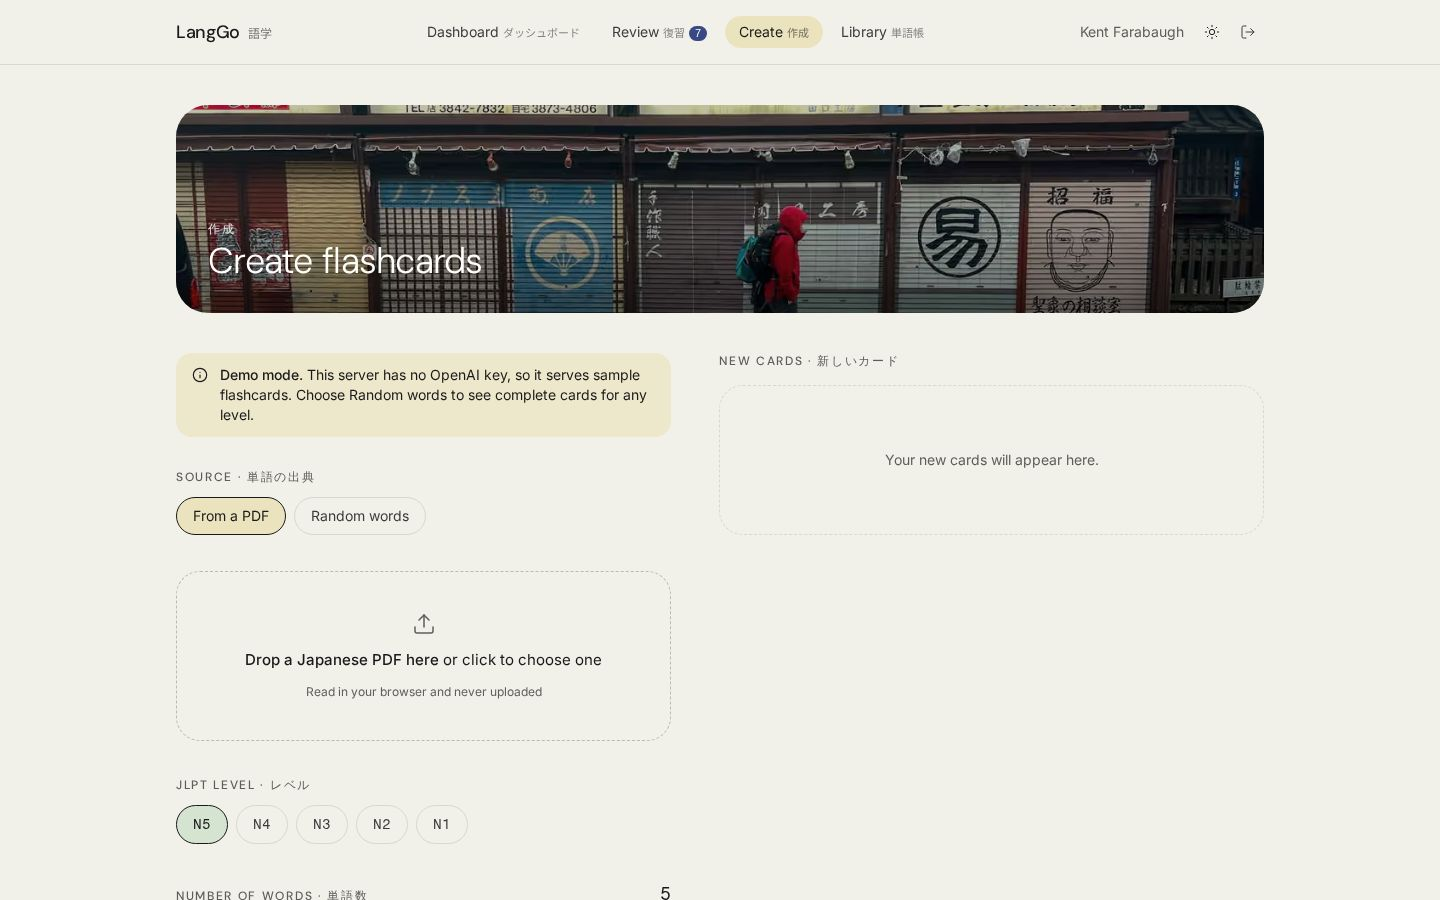
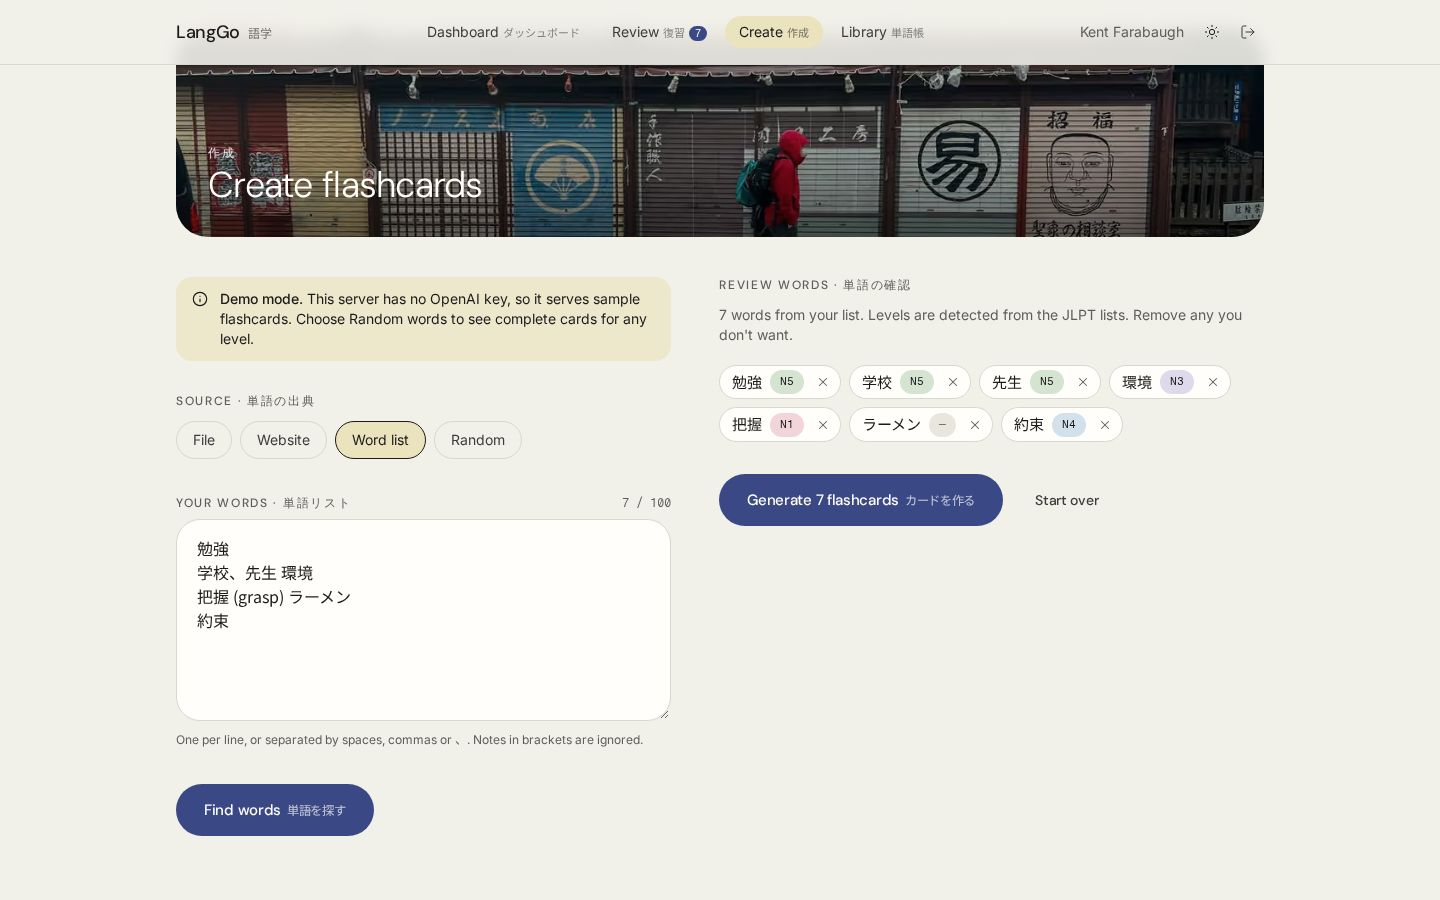
Add MIT license, roadmap, live demo link, and fresh screenshots
- LICENSE: MIT for the code; photos and screenshots remain all rights
  reserved; JLPT word lists credited (origin unconfirmed, see roadmap)
- README: live demo link, license badge and section, roadmap link, updated
  intro and screenshots (word-list preview, library with Anki export)
- docs/ROADMAP.md: launch checklist, grammar cards, YouTube links, AI chat
  tutor, Bunpro integration
- package.json license fields

diff --git a/docs/ROADMAP.md b/docs/ROADMAP.md
@@ -1,0 +1,135 @@
+# LangGo roadmap
+
+What's planned after the current release, in the recommended order. Effort is a rough estimate
+for one developer (S ≈ 1–2 days, M ≈ 3–5 days, L ≈ 1–2 weeks).
+
+**Shipped:** PostgreSQL + Better Auth, demo mode, VPS deployment, redesign with dark mode, focused
+review sessions, word lists / files (PDF, EPUB, DOCX, TXT, HTML, SRT/VTT) / web pages as sources,
+and Anki export.
+
+| # | Item | Status | Effort |
+|---|------|--------|--------|
+| 0 | [Launch checklist](#0-launch-checklist) | Before going live | M |
+| 1 | [Grammar cards](#1-grammar-cards) | Next | L |
+| 2 | [YouTube links](#2-youtube-links) | Covered by subtitle upload; link support optional | S–M |
+| 3 | [AI chat tutor](#3-ai-chat-tutor) | Later | L |
+| 4 | [Bunpro integration](#4-bunpro-integration) | Blocked on an official API | M |
+
+---
+
+## 0. Launch checklist
+
+Not features, but worth doing before real users arrive.
+
+- **Account deletion and data download.** The privacy page promises account removal on request;
+  a self-service "Delete my account" (cascades to cards via the existing foreign keys) and a
+  "Download my data" (the Anki/CSV export already covers cards) make that promise real.
+- **Password reset.** Needs an email provider (e.g. Postmark, Resend, Amazon SES). Better Auth has
+  built-in `sendResetPassword`; add the matching pages. Email verification can use the same
+  provider.
+- **Enforce the Content-Security-Policy.** It ships in report-only mode. Check the browser console
+  on the deployed site for violations, then set `reportOnly: false` in `backend/src/app.ts`.
+- **Error monitoring.** A hosted error tracker (e.g. Sentry, GlitchTip self-hosted) for both
+  frontend and backend, with PII scrubbing.
+- **Off-server backups.** The `backup` service keeps dumps on the VPS; add a scheduled copy to
+  object storage (OVHcloud Object Storage or similar).
+- **OpenAI budget.** Set a hard monthly limit in the OpenAI dashboard; review
+  `GENERATE_RATE_LIMIT` once there's real usage.
+- **Terms of use** page alongside the privacy policy.
+- **Word list provenance.** The origin of `frontend/src/data/*.json` isn't documented. Rebuild
+  the lists from a clearly licensed source (e.g. Jonathan Waller's CC BY JLPT lists) with a
+  small, committed script, credit the source, and keep the script so the data is reproducible.
+
+## 1. Grammar cards
+
+**Goal:** study grammar points (e.g. 〜ながら, 〜ばかり) with the same review flow as vocabulary.
+
+**Data model**
+- Add `kind` (`vocab` | `grammar`, default `vocab`) to `flashcard`, plus a nullable `details`
+  JSONB column for grammar-specific content:
+  `{ pattern, formation, explanation, examples: [{ ja, reading, en }] }`.
+- Existing columns map naturally: `word` = the pattern (e.g. 〜ながら), `meaning` = short gloss,
+  `mnemonic` = memory hook. `level` and scheduling are unchanged.
+
+**Sources**
+- *From text:* ask the model to identify grammar points used in a passage (from the existing
+  file/web/list extractors), constrained to the chosen JLPT level, returned as structured output
+  like today's vocab cards.
+- *From a list:* a curated JLPT grammar list per level, like the vocab lists. **Open question:**
+  find a list whose license permits redistribution (many online lists don't); otherwise rely on
+  model detection plus user-typed patterns.
+
+**API / UI**
+- `POST /api/flashcards` gains `kind`; a second Zod schema and prompt for grammar generation.
+- Create page: a Vocabulary / Grammar toggle above the sources.
+- Card back for grammar: formation, explanation, and 2–3 example sentences (furigana via
+  `<ruby>`). An optional cloze mode ("fill in the blank") for review later.
+- Library: a kind filter. Anki export: a second note type, "LangGo Grammar".
+
+**Testing:** schema migration, generation route (fake generator), rendering of grammar faces,
+Anki export of both note types (verify with the real Anki importer as before).
+
+## 2. YouTube links
+
+**Today:** users download a video's subtitles (.srt/.vtt) and drop them on the File source. This
+is free and stays within YouTube's terms.
+
+**Optional upgrade:** paste a YouTube link directly.
+- YouTube has **no official API for reading a video's captions** unless you own the video, and
+  its terms prohibit scraping. Unofficial libraries break when YouTube changes and can get the
+  server's IP blocked, so they're not suitable for production.
+- The viable route is a **paid transcript provider** behind a `TRANSCRIPT_API_KEY`: a
+  `POST /api/extract-youtube` that validates the video id, calls the provider, and returns text
+  to the existing word-matching flow (same shape as `/api/extract-url`). Hide the option when the
+  key isn't configured.
+- **Decide before building:** provider choice, cost per transcript, and their terms.
+
+## 3. AI chat tutor
+
+**Goal:** a practice area where you chat in Japanese with an AI that adapts to your level, gives
+short lessons and corrections, and can turn words or phrases from the conversation into cards.
+
+**Data model**
+- `conversation` (id, user_id, title, created_at) and `message` (id, conversation_id, role,
+  content, created_at). Optionally a `saved_phrase` table for a "phrasebook" section, or reuse
+  `flashcard` with `source = 'tutor'`.
+- `usage` (user_id, day, input_tokens, output_tokens) for per-user budgets.
+
+**Backend**
+- `POST /api/tutor/conversations/:id/messages` streams the reply with Server-Sent Events from
+  the OpenAI Responses API (streaming).
+- System prompt includes the user's level and a sample of words they're learning (from their
+  deck) so lessons reuse known vocabulary; modes such as "free conversation", "drill my due
+  words" and "explain this grammar".
+- **Tool calling:** the model can call `suggest_flashcard({ word, reading, meaning, mnemonic })`;
+  suggestions appear as "Add to deck" chips that the user confirms. Nothing is saved without
+  a click.
+- **Cost and safety controls:** per-user daily token budget, history truncation/summarization,
+  rate limits, OpenAI moderation on user input, and a demo-mode tutor with scripted replies.
+
+**Frontend**
+- `/tutor` page in the app shell: conversation list, chat view with streaming text, furigana
+  toggle, Japanese IME-friendly input (don't send on Enter while composing:
+  `compositionstart`/`compositionend`), and the suggested-card chips.
+
+**Testing:** route tests with a fake streaming model, budget enforcement, tool-call → suggestion
+→ save flow, IME composition handling in the input.
+
+## 4. Bunpro integration
+
+**Status: blocked.** Bunpro currently has **no official public API**. Its old API was deprecated
+and its docs removed, and the only reference is a community, reverse-engineered one that can
+change without notice. Building on undocumented endpoints with users' account tokens would be
+fragile and risky for users.
+
+**When Bunpro publishes an official API:**
+- User pastes their Bunpro API key (stored encrypted at rest, revocable from settings).
+- Periodic sync of the grammar points they're studying → generate **grammar cards** (feature 1)
+  and vocabulary cards from Bunpro's example sentences.
+- Show "from Bunpro" as a source/tag; never write back to Bunpro unless the API supports it.
+
+**Until then:** check whether Bunpro offers a user data export (CSV/JSON). If so, an import of
+that file is a low-risk way to get most of the value.
+
+Sources: [Bunpro community: "Bunpro API when?"](https://community.bunpro.jp/t/bunpro-api-when/100574),
+[community-maintained API reference](https://github.com/cbullard-dev/bunpro-community-api).

diff --git a/README.md b/README.md
@@ -1,19 +1,25 @@
 # LangGo
 
 [![CI](https://github.com/KentFarr/WebApp/actions/workflows/ci.yml/badge.svg)](https://github.com/KentFarr/WebApp/actions/workflows/ci.yml)
+[![License: MIT](https://img.shields.io/badge/license-MIT-blue.svg)](LICENSE)
 
-LangGo turns Japanese reading material into vocabulary flashcards. Upload a Japanese PDF, choose a
-JLPT level (N5–N1), and LangGo finds the most frequent words from that level, generates a
-flashcard for each one (reading, meaning, and a memorable mnemonic) with OpenAI, suggests related
-words, and schedules everything for review with spaced repetition.
+**Live demo: [langgo.co](https://langgo.co)**
+
+LangGo turns Japanese you actually read into vocabulary flashcards. Drop in a PDF, e-book, Word
+document or subtitle file, paste a link to an article, or type your own word list; choose a JLPT
+level (N5–N1); and LangGo finds the words worth learning, writes a flashcard for each one
+(reading, meaning, and a memorable mnemonic) with OpenAI, suggests related words, and schedules
+everything for review with spaced repetition. Decks export straight to Anki.
 
 ![LangGo landing page](docs/screenshots/home.jpg)
 
 | Dashboard | Review session (dark mode) |
 | --- | --- |
 | ![Dashboard with reviews due, stats and cards by JLPT level](docs/screenshots/dashboard.jpg) | ![Focused review session showing a flipped card with keyboard shortcuts](docs/screenshots/review-dark.jpg) |
-| **Create** | **Mobile** |
-| ![Create page with PDF drop zone and JLPT level chips](docs/screenshots/create.jpg) | ![Landing page on a phone](docs/screenshots/mobile.jpg) |
+| **Create from a word list** | **Library with Anki export** |
+| ![Create page: a pasted word list turned into chips tagged with JLPT levels](docs/screenshots/create.jpg) | ![Library filtered to N5 with Anki and CSV export buttons](docs/screenshots/library.jpg) |
+
+<p align="center"><img src="docs/screenshots/mobile.jpg" width="260" alt="LangGo's landing page on a phone"></p>
 
 ## Features
 
@@ -166,6 +172,12 @@ The backend integration tests run real Better Auth sessions and the real SQL mig
 database server or Docker. CI runs lint, type checking, tests, and a production build for both
 packages on every push and pull request.
 
+## Roadmap
+
+Planned next: grammar cards, an AI chat tutor, optional YouTube link support and, once Bunpro
+offers an official API, a Bunpro integration. Details and the pre-launch checklist are in
+[`docs/ROADMAP.md`](docs/ROADMAP.md).
+
 ## API
 
 Authentication endpoints are provided by Better Auth under `/api/auth` (for example
@@ -198,3 +210,12 @@ A flashcard looks like this:
   "createdAt": "2026-10-13T21:00:00.000Z"
 }
 ```
+
+## License
+
+The source code is released under the [MIT License](LICENSE).
+
+The photographs in `frontend/src/assets/photos/` and the screenshots in `docs/screenshots/` are
+© Kent Farabaugh, all rights reserved, and are not covered by the MIT License. The JLPT word lists
+in `frontend/src/data/` are believed to derive from Jonathan Waller's
+[JLPT resources](https://www.tanos.co.uk/jlpt/) (CC BY); see [LICENSE](LICENSE) for details.
